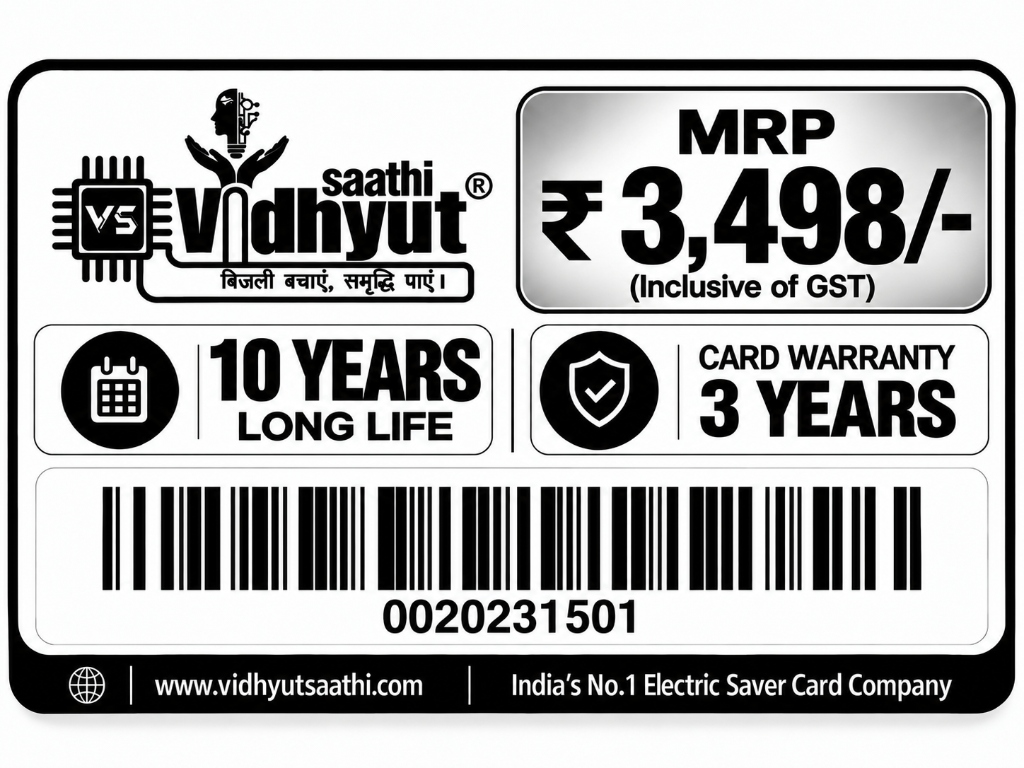
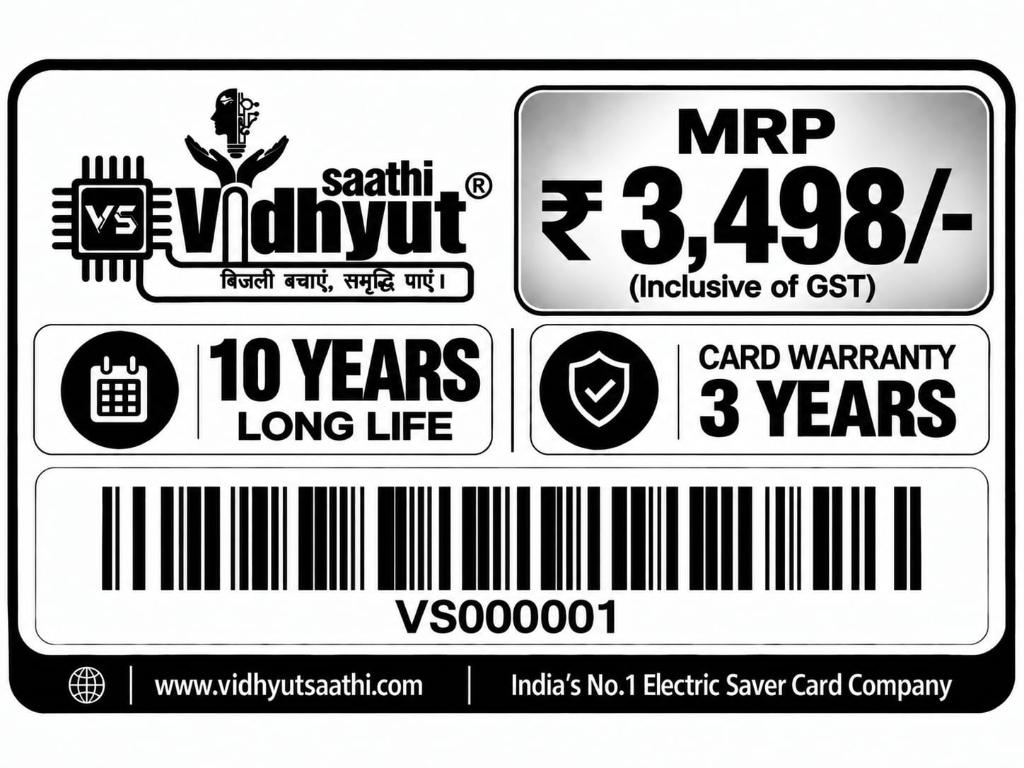
feat: apply new official monochrome label artwork and ensure exact serial number rendering

diff --git a/backend/src/scripts/prepareArtwork.js b/backend/src/scripts/prepareArtwork.js
@@ -1,48 +1,69 @@
 import sharp from 'sharp';
 import path from 'path';
+import fs from 'fs';
 import { fileURLToPath } from 'url';
 
 const __filename = fileURLToPath(import.meta.url);
 const __dirname = path.dirname(__filename);
 
-async function prepareArtwork() {
-  const masterPath = path.resolve(__dirname, '../assets/master_label.jpg');
-  const cleanOutputPath = path.resolve(__dirname, '../assets/clean_label_template.png');
-  const cleanJpgPath = path.resolve(__dirname, '../assets/clean_label_template.jpg');
+async function prepareNewArtwork() {
+  const userLabelPath = 'C:/Users/USER/.gemini/antigravity-ide/brain/3ae79501-f73b-4c4b-9e6d-4ddec9fb7aef/.user_uploaded/media_1790151917987.png';
+  const userLogoPath = 'C:/Users/USER/.gemini/antigravity-ide/brain/3ae79501-f73b-4c4b-9e6d-4ddec9fb7aef/.user_uploaded/media_1790151891345.jpg';
 
-  // 1. Crop the card to its EXACT outer border: left: 8, top: 60, width: 1007, height: 653
-  // This completely eliminates the outer white canvas margin and drop shadow!
-  const croppedCard = await sharp(masterPath)
-    .extract({ left: 8, top: 60, width: 1007, height: 653 })
-    .resize(1024, 768, { fit: 'fill' }) // exact 4:3 aspect ratio matching 2" x 1.5"
+  const backendAssetsDir = path.resolve(__dirname, '../assets');
+  const frontendPublicDir = path.resolve(__dirname, '../../../frontend/public');
+
+  // Ensure directories exist
+  fs.mkdirSync(backendAssetsDir, { recursive: true });
+  fs.mkdirSync(frontendPublicDir, { recursive: true });
+
+  // 1. Process Color Logo to Pure Black & Transparent/White if needed
+  let processedLogoBuffer = null;
+  if (fs.existsSync(userLogoPath)) {
+    // Threshold or convert logo to pure black
+    processedLogoBuffer = await sharp(userLogoPath)
+      .greyscale()
+      .linear(1.5, -40) // enhance contrast
+      .threshold(180) // pure black & white
+      .toBuffer();
+  }
+
+  // 2. Load the new label design (1024x768)
+  const baseLabel = await sharp(userLabelPath)
+    .resize(1024, 768, { fit: 'fill' })
     .toBuffer();
 
-  // In the 1024x768 edge-to-edge card:
-  // Box top border is at y ≈ 463
-  // Box bottom border is at y ≈ 698
-  // Old barcode bars & serial: y ≈ 490 to 670, x ≈ 80 to 944
-  const whiteRectSvg = Buffer.from(
+  // 3. White out the inner barcode box area (leaving outer borders intact)
+  // In 1024x768:
+  // Barcode box outer border: x=34 to 990, y=465 to 650
+  // Inner white area: x=40, y=475, width=944, height=165
+  const cleanBarcodeBoxSvg = Buffer.from(
     `<svg width="1024" height="768">
-      <rect x="75" y="488" width="874" height="208" fill="#FFFFFF" />
+      <rect x="42" y="475" width="940" height="165" fill="#FFFFFF" />
     </svg>`
   );
 
-  await sharp(croppedCard)
+  const cleanLabelBuffer = await sharp(baseLabel)
     .composite([
       {
-        input: whiteRectSvg,
+        input: cleanBarcodeBoxSvg,
         top: 0,
         left: 0,
       },
     ])
     .png()
-    .toFile(cleanOutputPath);
+    .toBuffer();
 
-  await sharp(cleanOutputPath)
-    .jpeg({ quality: 95, chromaSubsampling: '4:4:4' })
-    .toFile(cleanJpgPath);
+  // Save to backend assets
+  await sharp(cleanLabelBuffer).png().toFile(path.join(backendAssetsDir, 'clean_label_template.png'));
+  await sharp(cleanLabelBuffer).jpeg({ quality: 98, chromaSubsampling: '4:4:4' }).toFile(path.join(backendAssetsDir, 'clean_label_template.jpg'));
+  await sharp(baseLabel).jpeg({ quality: 98, chromaSubsampling: '4:4:4' }).toFile(path.join(backendAssetsDir, 'master_label.jpg'));
 
-  console.log('Edge-to-edge clean label template generated successfully (1024x768, 4:3)!');
+  // Save to frontend public
+  await sharp(cleanLabelBuffer).png().toFile(path.join(frontendPublicDir, 'clean_label_template.png'));
+  await sharp(baseLabel).jpeg({ quality: 98, chromaSubsampling: '4:4:4' }).toFile(path.join(frontendPublicDir, 'master_label.jpg'));
+
+  console.log('Successfully prepared new monochrome label template and assets (1024x768, 2"x1.5")!');
 }
 
-prepareArtwork().catch(console.error);
+prepareNewArtwork().catch(console.error);
